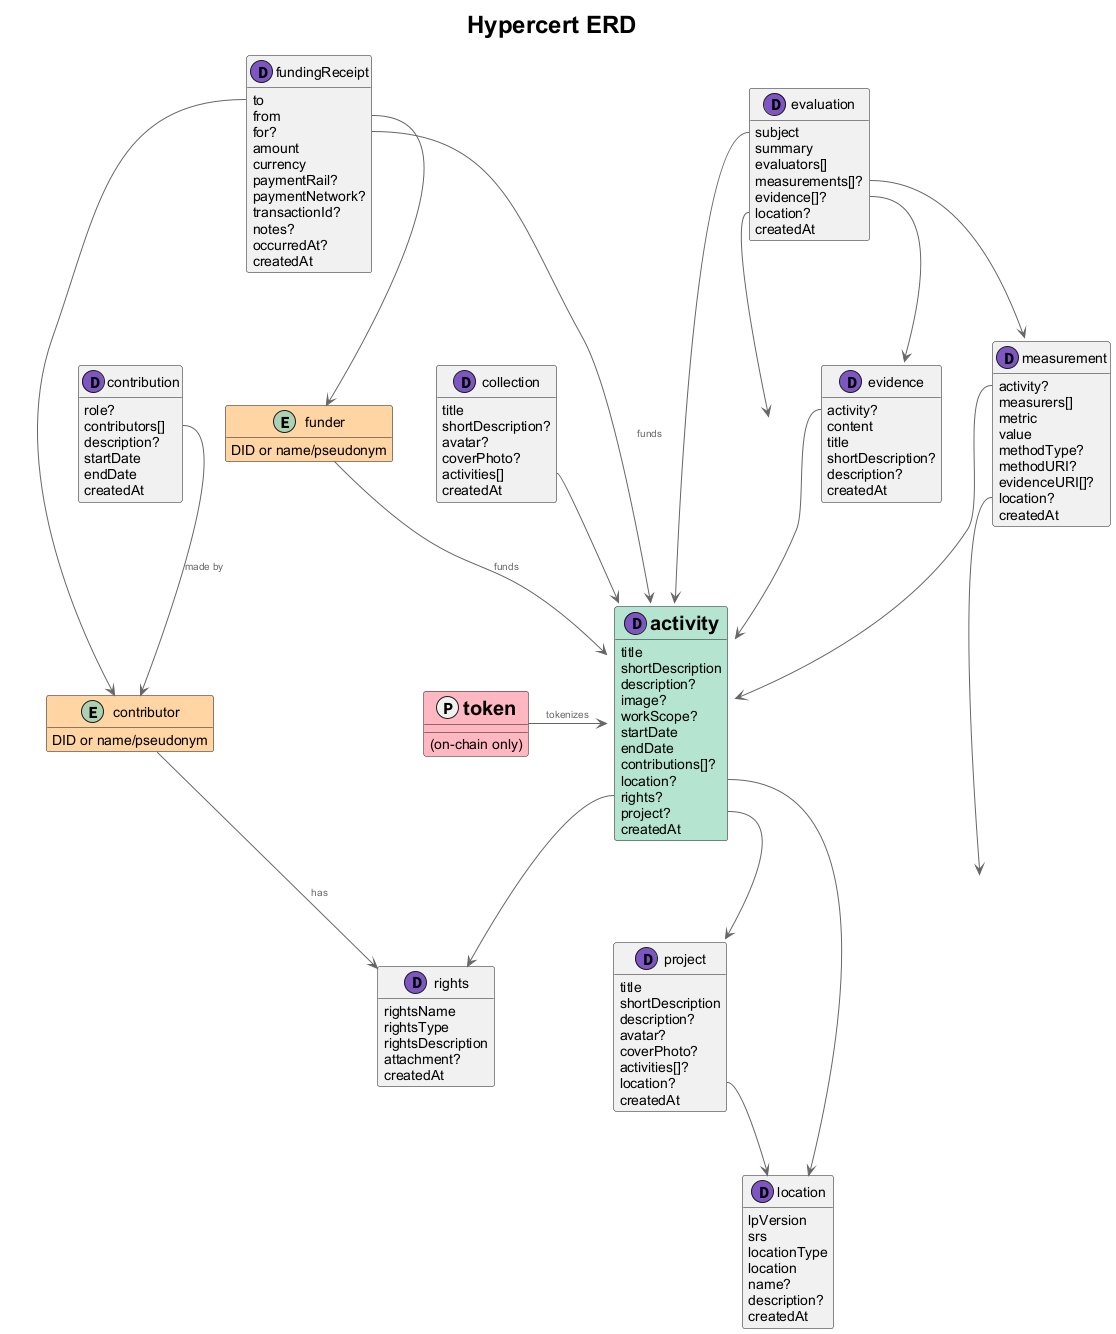
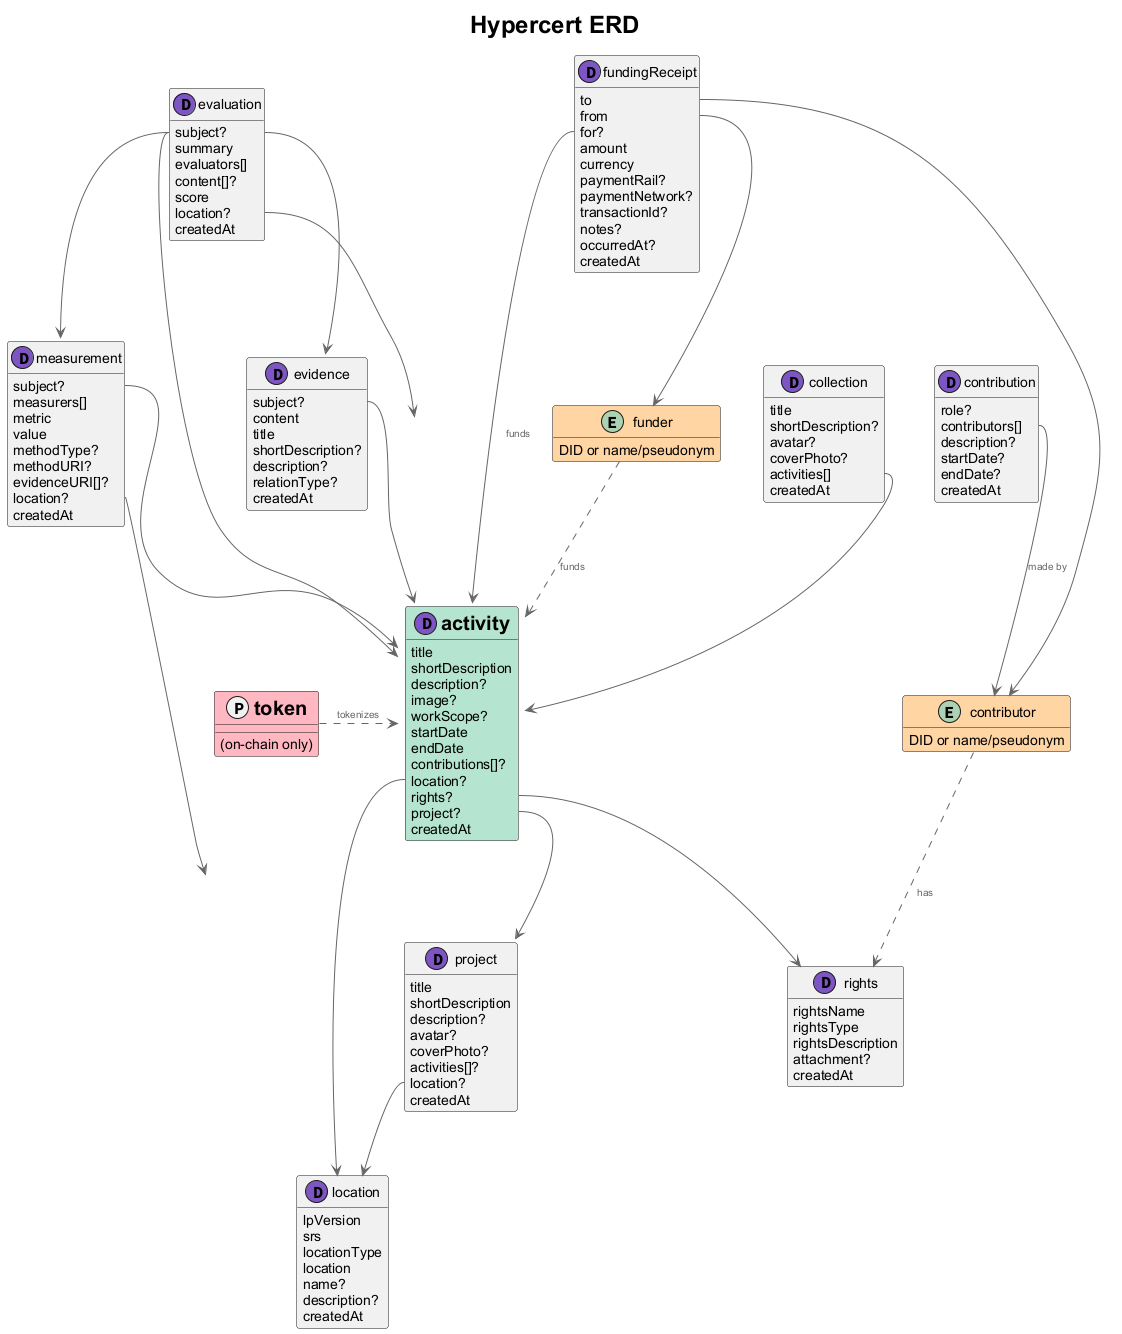
update README.md and ERD diagram

diff --git a/README.md b/README.md
@@ -158,7 +158,7 @@ Hypercerts-specific lexicons for tracking impact work and claims.
 
 **Description:** A contribution made toward a hypercert's impact.
 
-**Key:** `any`
+**Key:** `tid`
 
 #### Properties
 
@@ -177,20 +177,21 @@ Hypercerts-specific lexicons for tracking impact work and claims.
 
 **Lexicon ID:** `org.hypercerts.claim.evaluation`
 
-**Description:** An evaluation of a hypercert or other claim
+**Description:** An evaluation of a hypercert record (e.g. an activity and its impact).
 
 **Key:** `tid`
 
 #### Properties
 
-| Property      | Type     | Required | Description                                                                | Comments                                            |
-| ------------- | -------- | -------- | -------------------------------------------------------------------------- | --------------------------------------------------- |
-| `subject`     | `ref`    | ✅       | A strong reference to the evaluated claim                                  | (e.g measurement, hypercert, contribution, etc)     |
-| `evaluators`  | `array`  | ✅       | DIDs of the evaluators                                                     |                                                     |
-| `evaluations` | `array`  | ❌       | Evaluation data (URIs or blobs) containing detailed reports or methodology |                                                     |
-| `summary`     | `string` | ✅       | Brief evaluation summary                                                   |                                                     |
-| `location`    | `ref`    | ❌       | An optional reference for georeferenced evaluations                        | References must conform to `app.certified.location` |
-| `createdAt`   | `string` | ✅       | Client-declared timestamp when this record was originally created          |                                                     |
+| Property     | Type     | Required | Description                                                                | Comments                                            |
+| ------------ | -------- | -------- | -------------------------------------------------------------------------- | --------------------------------------------------- |
+| `subject`    | `ref`    | ❌       | A strong reference to what is being evaluated                              | (e.g activity, measurement, contribution, etc.)     |
+| `evaluators` | `array`  | ✅       | DIDs of the evaluators                                                     |                                                     |
+| `content`    | `array`  | ❌       | Evaluation data (URIs or blobs) containing detailed reports or methodology |                                                     |
+| `summary`    | `string` | ✅       | Brief evaluation summary                                                   |                                                     |
+| `score`      | `object` | ❌       | Optional overall score for this evaluation on a numeric scale              | Object with `min`, `max`, and `value` (integers)    |
+| `location`   | `ref`    | ❌       | An optional reference for georeferenced evaluations                        | References must conform to `app.certified.location` |
+| `createdAt`  | `string` | ✅       | Client-declared timestamp when this record was originally created          |                                                     |
 
 ---
 
@@ -198,20 +199,21 @@ Hypercerts-specific lexicons for tracking impact work and claims.
 
 **Lexicon ID:** `org.hypercerts.claim.evidence`
 
-**Description:** A piece of evidence supporting a hypercert claim
+**Description:** A piece of evidence related to a hypercert record (e.g. an activity, project, claim, or evaluation). Evidence may support, clarify, or challenge the referenced subject.
 
-**Key:** `any`
+**Key:** `tid`
 
 #### Properties
 
-| Property           | Type     | Required | Description                                                                | Comments                                                                            |
-| ------------------ | -------- | -------- | -------------------------------------------------------------------------- | ----------------------------------------------------------------------------------- |
-| `activity`         | `ref`    | ❌       | A strong reference to the activity this evidence is for                    | The record referenced must conform with the lexicon `org.hypercerts.claim.activity` |
-| `content`          | `union`  | ✅       | A piece of evidence (URI or blobs) supporting a hypercert claim            |                                                                                     |
-| `title`            | `string` | ✅       | Title to describe the nature of the evidence                               |                                                                                     |
-| `shortDescription` | `string` | ❌       | Short description explaining what this evidence demonstrates or proves     |                                                                                     |
-| `description`      | `string` | ❌       | Optional longer description describing the impact claim evidence.          |                                                                                     |
-| `createdAt`        | `string` | ✅       | Client-declared timestamp when this hypercert claim was originally created |                                                                                     |
+| Property           | Type     | Required | Description                                                       | Comments                                             |
+| ------------------ | -------- | -------- | ----------------------------------------------------------------- | ---------------------------------------------------- |
+| `subject`          | `ref`    | ❌       | A strong reference to the record this evidence relates to         | (e.g. an activity, project, claim, or evaluation)    |
+| `content`          | `union`  | ✅       | A piece of evidence (URI or blob) related to the subject record   | May support, clarify, or challenge a hypercert claim |
+| `title`            | `string` | ✅       | Title to describe the nature of the evidence                      |                                                      |
+| `shortDescription` | `string` | ❌       | Short description explaining what this evidence shows             |                                                      |
+| `description`      | `string` | ❌       | Longer description describing the evidence in more detail         |                                                      |
+| `relationType`     | `string` | ❌       | How this evidence relates to the subject                          | Known values: `supports`, `challenges`, `clarifies`  |
+| `createdAt`        | `string` | ✅       | Client-declared timestamp when this record was originally created |                                                      |
 
 ---
 
@@ -219,23 +221,23 @@ Hypercerts-specific lexicons for tracking impact work and claims.
 
 **Lexicon ID:** `org.hypercerts.claim.measurement`
 
-**Description:** External measurement data supporting a hypercert claim
+**Description:** Measurement data related to a hypercert record (e.g. an activity and its impact).
 
 **Key:** `tid`
 
 #### Properties
 
-| Property      | Type     | Required | Description                                                                   | Comments                                                                            |
-| ------------- | -------- | -------- | ----------------------------------------------------------------------------- | ----------------------------------------------------------------------------------- |
-| `activity`    | `ref`    | ❌       | A strong reference to the activity that this measurement is for               | The record referenced must conform with the lexicon `org.hypercerts.claim.activity` |
-| `measurers`   | `array`  | ✅       | DIDs of the entity (or entities) that measured this data                      |                                                                                     |
-| `metric`      | `string` | ✅       | The metric being measured                                                     |                                                                                     |
-| `value`       | `string` | ✅       | The measured value                                                            |                                                                                     |
-| `methodType`  | `string` | ❌       | Short identifier for the measurement methodology                              |                                                                                     |
-| `methodURI`   | `string` | ❌       | URI to methodology documentation, standard protocol, or measurement procedure |                                                                                     |
-| `evidenceURI` | `array`  | ❌       | URIs to supporting evidence or data                                           |                                                                                     |
-| `location`    | `ref`    | ❌       | A strong reference to the location where the measurement was taken            | References must conform to `app.certified.location`                                 |
-| `createdAt`   | `string` | ✅       | Client-declared timestamp when this record was originally created             |                                                                                     |
+| Property      | Type     | Required | Description                                                                   | Comments                                                     |
+| ------------- | -------- | -------- | ----------------------------------------------------------------------------- | ------------------------------------------------------------ |
+| `subject`     | `ref`    | ❌       | A strong reference to the record this measurement refers to                   | (e.g. an activity, project, or claim)                        |
+| `measurers`   | `array`  | ✅       | DIDs of the entity (or entities) that measured this data                      |                                                              |
+| `metric`      | `string` | ✅       | The metric being measured                                                     |                                                              |
+| `value`       | `string` | ✅       | The measured value                                                            |                                                              |
+| `methodType`  | `string` | ❌       | Short identifier for the measurement methodology                              |                                                              |
+| `methodURI`   | `string` | ❌       | URI to methodology documentation, standard protocol, or measurement procedure |                                                              |
+| `evidenceURI` | `array`  | ❌       | URIs to related evidence or underlying data                                   | (e.g. org.hypercerts.claim.evidence records or raw datasets) |
+| `location`    | `ref`    | ❌       | A strong reference to the location where the measurement was taken            | References must conform to `app.certified.location`          |
+| `createdAt`   | `string` | ✅       | Client-declared timestamp when this record was originally created             |                                                              |
 
 ---
 
@@ -287,9 +289,9 @@ Hypercerts-specific lexicons for tracking impact work and claims.
 
 **Lexicon ID:** `org.hypercerts.claim.rights`
 
-**Description:** Describes the rights that a user has with a hypercert, such as whether it can be sold, transferred, and under what conditions.
+**Description:** Describes the rights that a contributor and/or an owner has, such as whether the hypercert can be sold, transferred, and under what conditions.
 
-**Key:** `any`
+**Key:** `tid`
 
 #### Properties
 
@@ -315,7 +317,7 @@ Hypercerts-specific lexicons for tracking impact work and claims.
 
 | Property         | Type     | Required | Description                                                                                                                 | Comments                                                    |
 | ---------------- | -------- | -------- | --------------------------------------------------------------------------------------------------------------------------- | ----------------------------------------------------------- |
-| `from`           | `string` | ✅       | DID of the sender who transferred the funds. Leave empty if sender wants to stay anonymous.                                 | Format: did                                                 |
+| `from`           | `string` | ✅       | DID of the sender who transferred the funds. If sender wants to stay anonymous, mark this explicitly.                       | Format: did                                                 |
 | `to`             | `string` | ✅       | The recipient of the funds, who can be identified by DID or a clear-text name.                                              |                                                             |
 | `amount`         | `string` | ✅       | Amount of funding received.                                                                                                 |                                                             |
 | `currency`       | `string` | ✅       | Currency of the payment (e.g. EUR, USD, ETH).                                                                               |                                                             |
